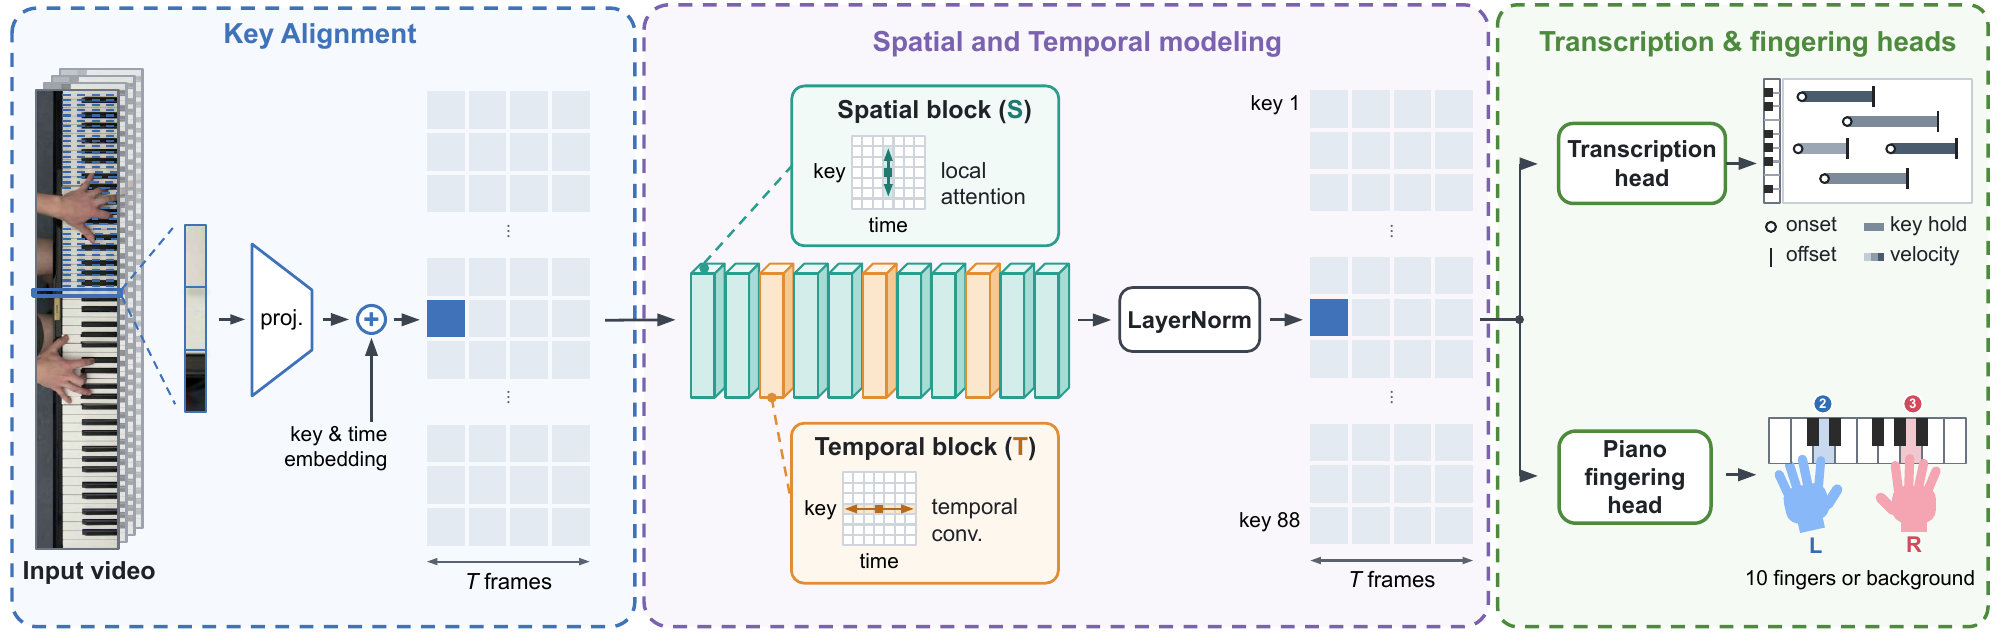
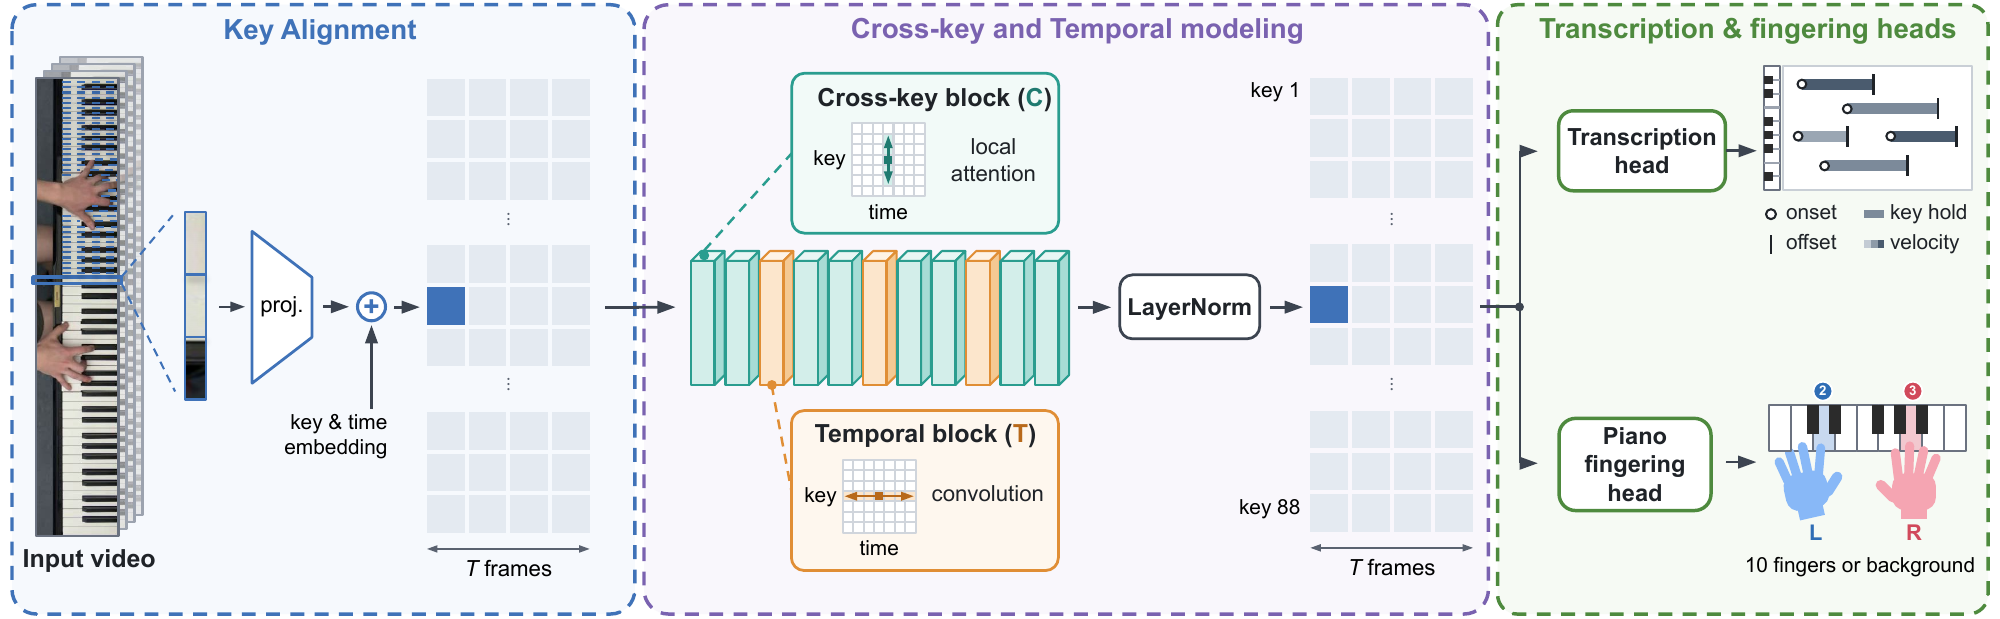
Update title, abstract, and method figure

diff --git a/index.html b/index.html
@@ -4,7 +4,7 @@
 <meta charset="utf-8">
 <meta name="viewport" content="width=device-width, initial-scale=1">
 <title>PianoLite and PianoVid-R</title>
-<meta name="description" content="Key-aligned model for visual piano transcription and piano fingering recognition, and the PianoVid-R dataset of 80 pianists.">
+<meta name="description" content="A Video Dataset and Key-Aligned Model for Visual Piano Transcription and Fingering Recognition: the PianoVid-R dataset of 80 pianists and the key-aligned PianoLite model.">
 <style>
   :root {
     --bg: #ffffff; --fg: #1d2330; --muted: #5b6475; --line: #e3e6ec;
@@ -50,7 +50,7 @@
 </head>
 <body>
 <main>
-  <h1>Key-Aligned Model for Visual Piano Transcription and Piano Fingering Recognition</h1>
+  <h1>A Video Dataset and Key-Aligned Model for Visual Piano Transcription and Fingering Recognition</h1>
   <p class="authors">Jianzhe Liu<sup>*,1,2</sup> &nbsp; Danqing Chen<sup>*,1,2</sup> &nbsp; Inken Grüner<sup>1</sup> &nbsp; A. Sophia Koepke<sup>1,2,3</sup></p>
   <p class="affil"><sup>1</sup>Technical University of Munich &nbsp; <sup>2</sup>MCML &nbsp; <sup>3</sup>University of Tübingen, Tübingen AI Center</p>
   <p class="note">* Equal contribution</p>
@@ -67,7 +67,7 @@
   </figure>
 
   <h2>Abstract</h2>
-  <p>Video recordings of piano playing make it possible to infer both which notes are sounding and which fingers are playing them. However, data for this task remains limited. We introduce PianoVid-R, a dataset of video recordings from 80 pianists, paired with synchronized recorded MIDI and finger labels derived from the video. Furthermore, we propose a model that jointly predicts the notes played and the corresponding fingers, both from visual information alone. Our framework preserves key-level features throughout the network, so that the same features yield both predictions. On PianoVid-R, our framework achieves more accurate piano transcription and finger recognition than existing frameworks. After pretraining, it also transfers well to different pianos.</p>
+  <p>Video recordings of piano playing make it possible to infer both which notes are sounding and which fingers are playing them. However, data for this task remains limited. We introduce PianoVid-R, a dataset of video recordings from 80 pianists, paired with synchronized recorded MIDI and finger labels derived from the video. Furthermore, we propose a model that jointly predicts the notes played and the corresponding fingers, both from visual information alone. Our framework preserves key-level features throughout the network, so that the same features yield both predictions. On PianoVid-R, our framework achieves more accurate piano transcription and finger recognition than existing frameworks. For transcription, it also generalizes far better than the strongest visual baseline to unseen pianos.</p>
 
   <h2>Notes and fingers from silent video</h2>
   <figure>

diff --git a/README.md b/README.md
@@ -1,6 +1,6 @@
 # PianoLite and PianoVid-R
 
-Project page for *Key-Aligned Model for Visual Piano Transcription and Piano Fingering Recognition*
+Project page for *A Video Dataset and Key-Aligned Model for Visual Piano Transcription and Fingering Recognition*
 (Jianzhe Liu, Danqing Chen, Inken Grüner, A. Sophia Koepke).
 
 Page: https://timbermorph.github.io/PianoLite/
